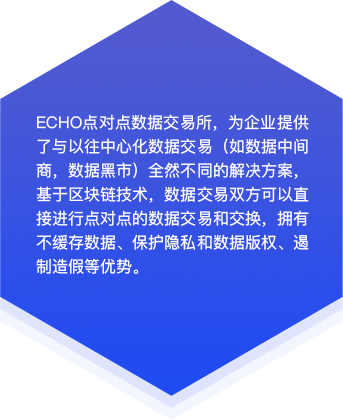
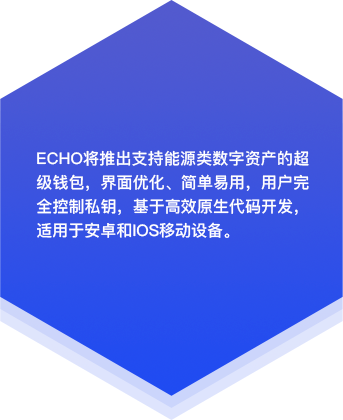
字号调整

Changed region(s): [[0.0875, 0.2476, 0.9038, 0.65]]

diff --git a/src/routes/home/Ecology/locales/enUS.js b/src/routes/home/Ecology/locales/enUS.js
@@ -1,19 +1,19 @@
 const dicts = {
-  title: 'Future ecology',
+  title: 'Echo Ecosystem',
   collection: {
-    label: 'Data collection',
+    label: 'Digitization of asset',
     descr:
-      'assists users to consolidate their data and stores encrypted on distributed file system. Users can choose to open their data access and profit from it. helping users to retrieve their data property.',
+      "The digitization of assets is the best solution for companies to reduce costs and increase efficiency. The use of ECHO's technical method to encrypt and save digital assets makes it easier for companies and individuals to proceed better management.",
   },
   p2p: {
-    label: 'P2P Data Marketplace',
+    label: 'super wallet',
     descr:
-      'The decentralized data marketplace provides a unique solution for businesses. Comparing to traditional solutions, such as centralized data center or underground data trading market, decentralized data marketplace allows P2P data transmission without precipitating data. This effectively protects data privacy and copyright, as well as prevents fraudulent activities.',
+      'Echo will launch a super wallet that supports energy digital assets with optimized interface and simplified use. The user has full control of the private key. It is developed based on efficient native code and is applicable for Android and IOS mobile devices.',
   },
   echain: {
-    label: 'Echain',
+    label: 'decentralized transaction',
     descr:
-      'EChain greatly supports all kinds of app development. Comparing to other public blockchain, EChain not only supports smart contract, blockchain as a service (BaaS), but also provides many unique services. Including ID verification, multi-dimensional data, KYC, and swift login. , which can accommodate general business application scenarios. Moreover, developers can issue new assets on EChain',
+      'ECHO decentralized transactions are charactered by trust-exmption, security, instant transactions, and on-chain transactions. The integrity of the operator ensured by smart contract, transaction performed on chain are applicable to all accounts including ordinary accounts and smart contracts.',
   },
 
   images: {

diff --git a/src/routes/home/Ecology/locales/zhCN.js b/src/routes/home/Ecology/locales/zhCN.js
@@ -1,19 +1,19 @@
 const dicts = {
   title: 'ECHO勾勒的生态',
   collection: {
-    label: '数据采集',
+    label: '资产数字化',
     descr:
-      '帮助用户在全平台采集自己的数据，并通过分布式储存技术对数据加密保管。用户可以选择自己数据的开放、授权和交易并从中分享价值，真正做到让数据所有权回归大众',
+      '资产数字化是企业能降低成本和增加效率的最优解决方案，使用ECHO的技术手段对数字资产进行加密和保存，更便于企业和个人进行管理。',
   },
   p2p: {
-    label: '点对点数据交易平台',
+    label: '超级钱包',
     descr:
-      'ECHO点对点数据交易所，为企业提供了与以往中心化数据交易（如数据中间商，数据黑市）全然不同的解决方案，基于区块链技术，数据交易双方可以直接进行点对点的数据交易和交换，拥有不缓存数据、保护隐私和数据版权、遏制造假等优势。',
+      'ECHO将推出支持能源类数字资产的超级钱包，界面优化、简单易用，用户完全控制私钥，基于高效原生代码开发，适用于安卓和IOS移动设备。',
   },
   echain: {
-    label: 'Echain',
+    label: '去中心化交易',
     descr:
-      '点对EChain可以帮助开发者便捷地开发应用，相对于其他公链，除了基本的智能合约、BaaS服务之外，EChain还可以提供平台流量、通用数字身份（E-ID)验证、多维度用户数据、KYC输出和快捷登陆等多种服务，能满足商业应用的运行需求点数据交易平台',
+      'ECHO去中心化交易具有无需信任与安全性、即时交易、链上交易等特点。由智能合约强制保证运营者的诚实性，交易在链上进行，适用于包括普通账户和智能合约在内的所有账户。',
   },
 
   images: {

diff --git a/src/routes/home/Background/locales/enUS.js b/src/routes/home/Background/locales/enUS.js
@@ -1,11 +1,11 @@
 const dicts = {
   title: 'Background of ECHO public chain',
   content:
-    '<li>ECHO Public Chain is a blockchain technology focused on enterprise application services</li>' +
-    '<li>Which is based on the existing mature and stable blockchain open source project</li>' +
-    '<li>We comprehensively consider and many aspects of performance, including the maturity of open source projects, the friendliness of development interfaces, the availability of technical components, the degree of pluggability, the degree of support for diversification and complex business support</li>' +
-    '<li>According to the specifications and requirements of blockchain system for enterprises, the open source project is transformed and upgraded from the ground floor to form a public chain that meets the requirements of enterprise-level application scenarios in terms of functions, performance, security, and stability</li>' +
-    '<li>helps users in various industries to build commercial blockchain service</li>',
+    '<li>The rapid development of new energy generates massive energy digital assets and asset circulation demand</li>' +
+    '<li>Blockchain enables energy digital precision management and efficient and secure transaction protection</li>' +
+    '<li>Chained assets between upstream and downstream companies can reduce trust costs and financing costs</li>' +
+    '<li>The blockchain ecology can achieve fast and free transactions and settlement capabilities, speed up the efficiency and save eco-cost</li>' +
+    '<li>In order to realize this vision, a public chain with high TPS, Turing-complete smart contract and decentralized transaction is needed</li>',
 };
 
 export default dicts;

diff --git a/src/routes/home/Background/locales/zhCN.js b/src/routes/home/Background/locales/zhCN.js
@@ -1,11 +1,11 @@
 const dicts = {
-  title: 'ECHO公链背景',
+  title: 'Echo背景',
   content:
-    '<li>ECHO链是聚焦于企业级应用服务的区块链技术</li>\n' +
-    '<li>基于现有成熟稳定的区块链开源项目进行开发</li>\n' +
-    '<li>综合考虑开源项目的成熟度、开发接口友好性、技术组件齐备性、可插件化程度、多样化复杂业务支持程度等多方面的表现</li>\n' +
-    '<li>根据企业级区块链系统的规范和需求，对开源项目从底层进行改造和升级，形成符合企业级应用场景功能、性能、安全性、稳定性等要求的公有链</li>\n' +
-    '<li>帮助各行业的用户来构建商用区块链服务。</li>',
+    '<li>新能源的迅猛发展产生海量的能源数字资产和资产流通需求</li>\n' +
+    '<li>区块链能实现能源数字化精准管理和高效安全的交易保障</li>\n' +
+    '<li>上下游企业之间的链化资产可降低信任成本和融资成本</li>\n' +
+    '<li>区块链生态能够实现快速自由的交易及清结算能力，加速效率并节省生态成本</li>\n' +
+    '<li>为实现此愿景需要一个TPS足够高，智能合约层具备图灵完备，且打造成去中心化交易的公链</li>',
 };
 
 export default dicts;

diff --git a/src/components/Header/Header.js b/src/components/Header/Header.js
@@ -94,7 +94,7 @@ class Header extends React.Component {
         </Navbar.Header>
         <Navbar.Collapse>
           <Nav pullRight onSelect={this.selectHandle}>
-            {email && (
+            {/* {email && (
               <NavDropdown title={email} id="personal-center">
                 <MenuItem href="/profile">{intl.get('PROFILE_TITLE')}</MenuItem>
                 <MenuItem href="/logout">{intl.get('LOGOUT')}</MenuItem>
@@ -103,7 +103,7 @@ class Header extends React.Component {
             {!email && <NavItem href="/login">{intl.get('LOGIN')}</NavItem>}
             {!email && (
               <NavItem href="/register">{intl.get('REGISTER')}</NavItem>
-            )}
+            )} */}
             <NavDropdown title={mapLocalesName()} id="language-you-choose">
               <MenuItem href="?lang=en-us">English</MenuItem>
               <MenuItem href="?lang=zh-cn">中文</MenuItem>

diff --git a/src/locales/index.js b/src/locales/index.js
@@ -36,7 +36,12 @@ const loadLocales = (lang: string, acceptLanguage?: string): Promise => {
   if (lang) {
     // server side
     currentLocale = lang;
-  } else if (acceptLanguage) {
+  } else {
+    currentLocale = 'en-us';
+  }
+
+  /*
+  if (acceptLanguage) {
     // server side
     const langs = acceptLanguage.split(';');
     currentLocale = langs[0] ? langs[0].split(',')[0] : '';
@@ -48,6 +53,7 @@ const loadLocales = (lang: string, acceptLanguage?: string): Promise => {
       cookieLocaleKey: 'lang',
     });
   }
+  */
 
   currentLocale = currentLocale.toLowerCase();
 

diff --git a/src/routes/home/Navigator/Navigator.js b/src/routes/home/Navigator/Navigator.js
@@ -23,7 +23,7 @@ function Navigator() {
           <a href="#team">{anchors[1]}</a>
           <a href="#partners">{anchors[2]}</a>
           <a href="#contact">{anchors[3]}</a>
-          <a href="/login">{login}</a>
+          {/* <a href="/login">{login}</a> */}
           <a href={switcher.link}>{switcher.label}</a>
         </div>
       </div>

diff --git a/src/client.js b/src/client.js
@@ -88,7 +88,7 @@ async function onLocationChange(location, action) {
       (context.query.lang && context.query.lang !== lang) ||
       !intl.getInitOptions().currentLocale
     ) {
-      await loadLocales();
+      await loadLocales(context.query.lang);
     }
 
     // Traverses the list of routes in the order they are defined until

diff --git a/src/routes/home/Banner/locales/enUS.js b/src/routes/home/Banner/locales/enUS.js
@@ -1,6 +1,6 @@
 const dicts = {
   title:
-    '<p>Safe and stable distributed encrypted</p><p>ledgers and a future-oriented</p>',
+    '<p>Public chain ecology oriented to energy economy</p>',
   whitePaper: 'White Paper',
   link: 'https://www.echoex.io/data/ECHO_WhitePaper_en.pdf',
 };

diff --git a/src/routes/home/Banner/locales/zhCN.js b/src/routes/home/Banner/locales/zhCN.js
@@ -1,5 +1,5 @@
 const dicts = {
-  title: '<p>安全稳定的分布式加密账本&</p><p>面向未来的分布式商业生态</p>',
+  title: '<p>面向能源经济的公链生态</p>',
   whitePaper: '白 皮 书',
   link: 'https://www.echoex.io/data/ECHO_WhitePaper_cn.pdf',
 };

diff --git a/src/routes/home/Banner/Banner.scss b/src/routes/home/Banner/Banner.scss
@@ -26,6 +26,7 @@
   color: #fff;
   font-size: 52px;
   text-align: center;
+  letter-spacing: 5px;
 }
 
 .btnWrap {
